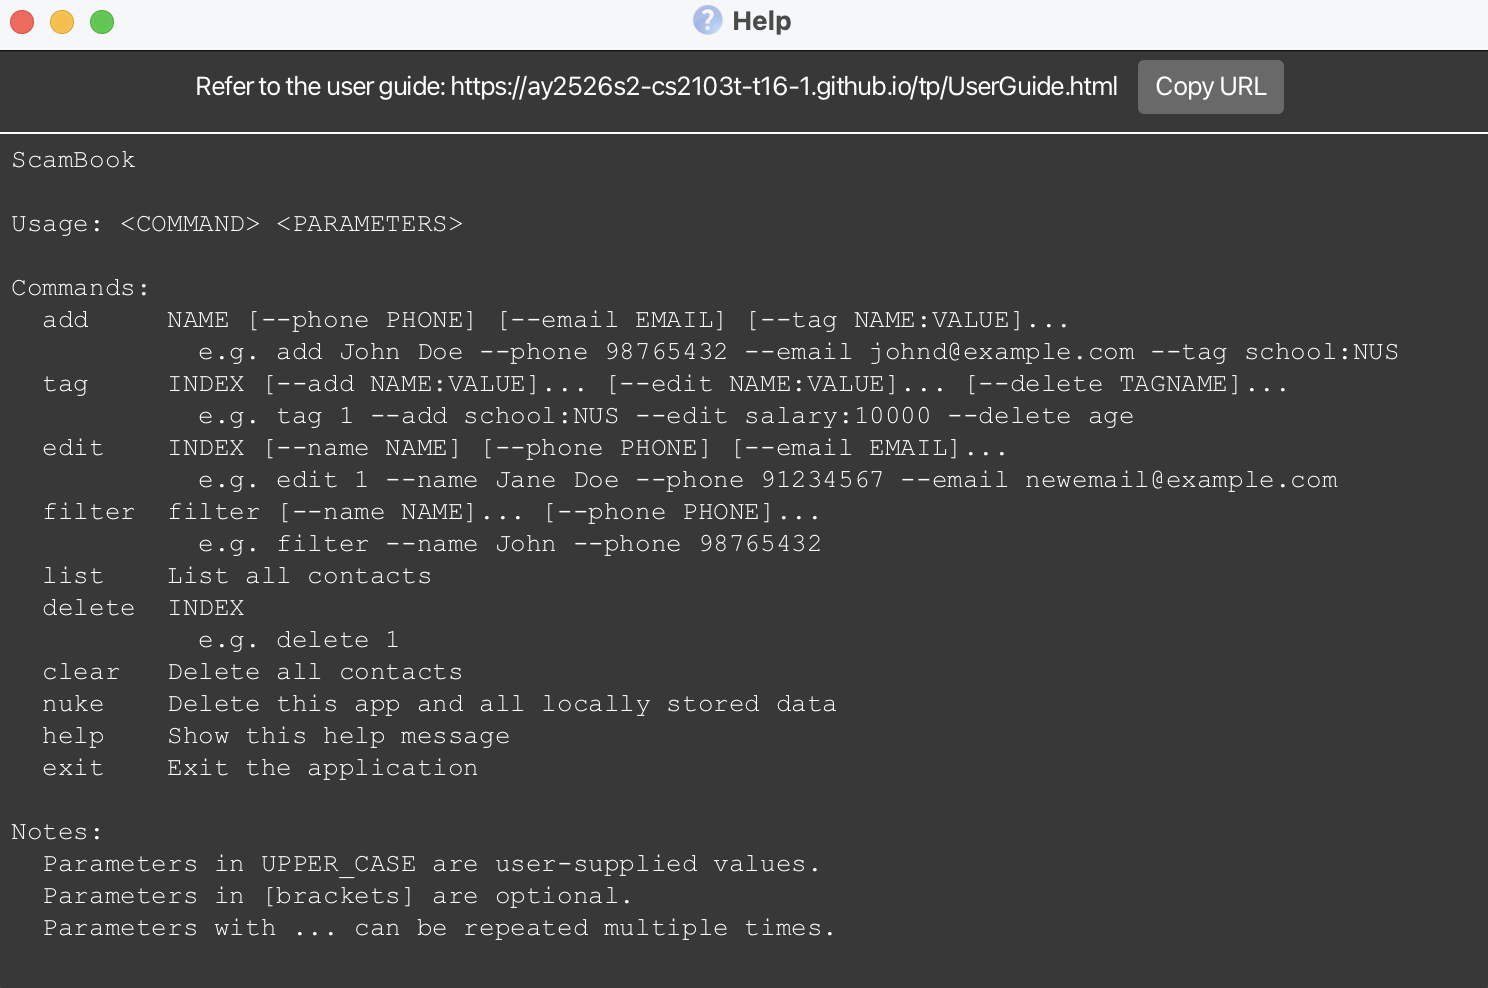
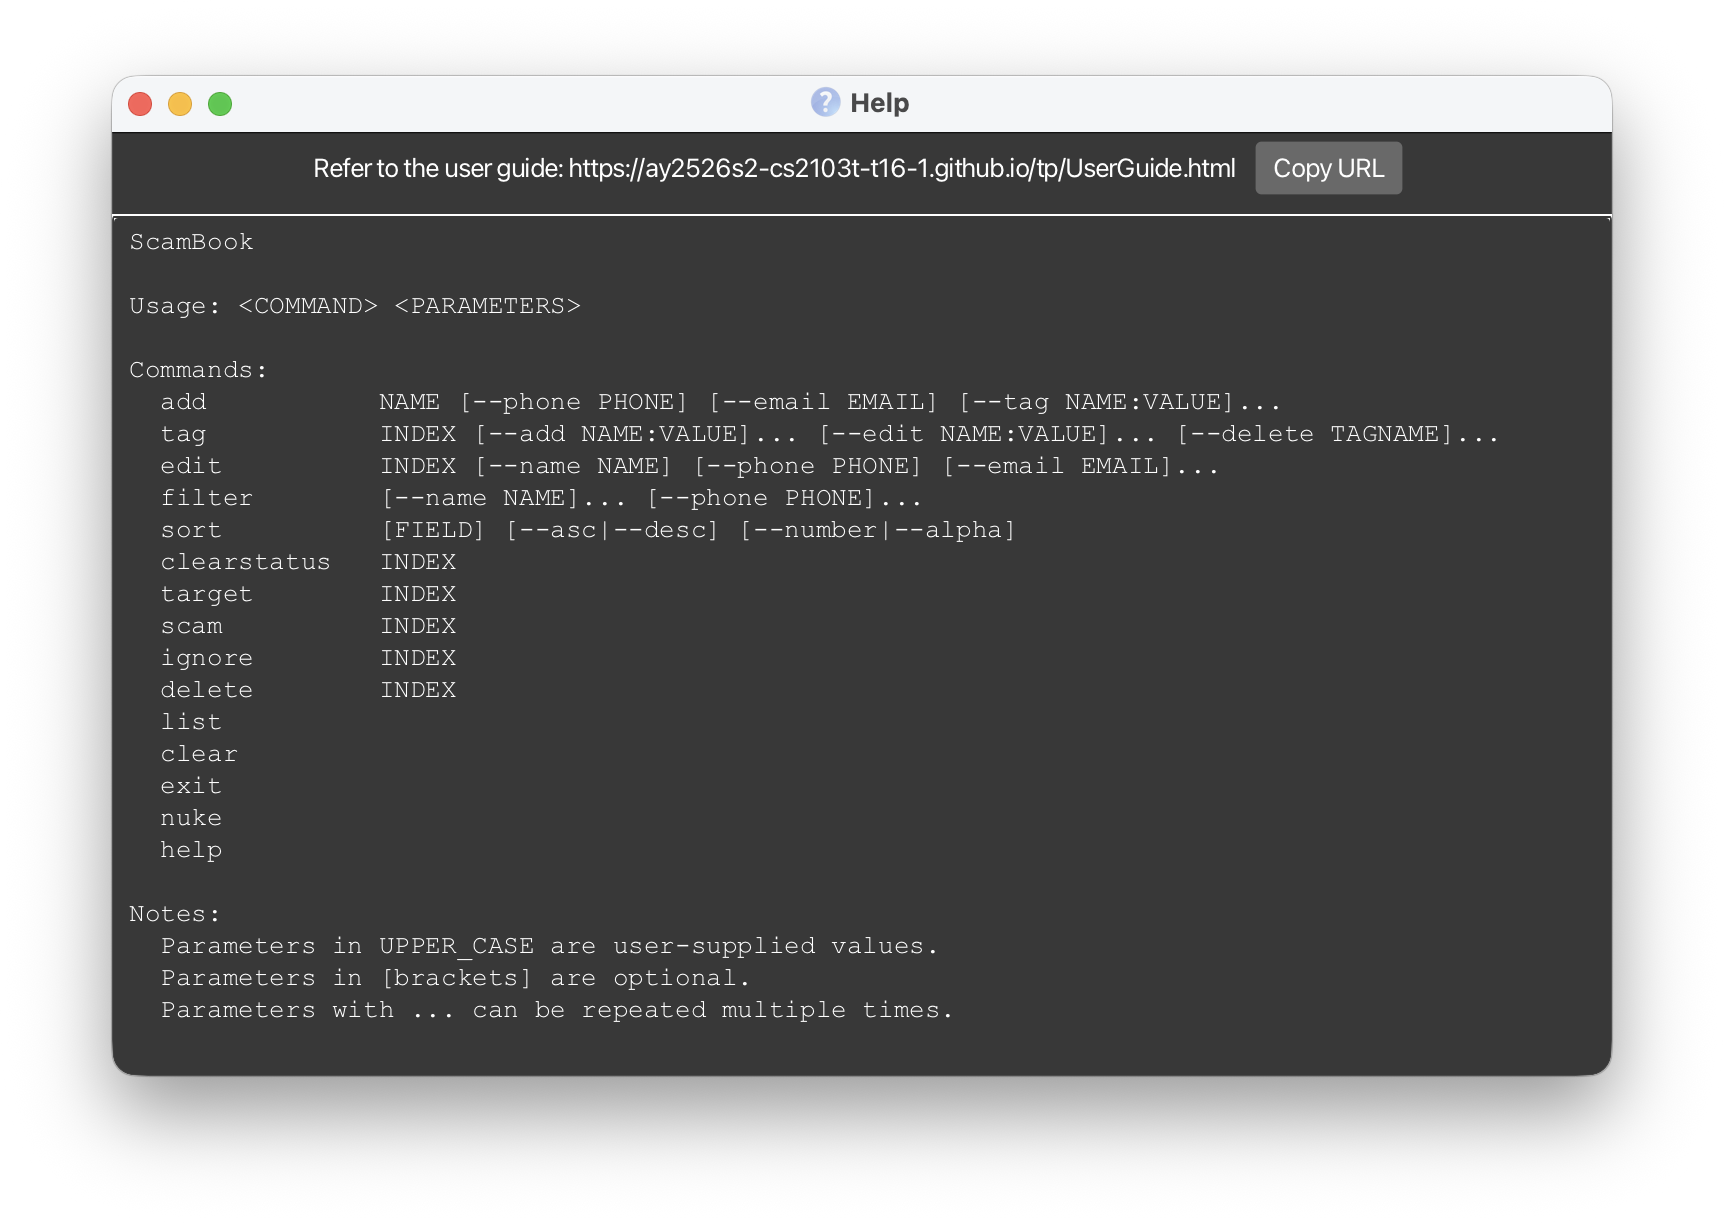
Update helpMessage.png

diff --git a/src/main/java/seedu/address/ui/HelpWindow.java b/src/main/java/seedu/address/ui/HelpWindow.java
@@ -27,7 +27,7 @@ public class HelpWindow extends UiPart<Stage> {
           add           NAME [--phone PHONE] [--email EMAIL] [--tag NAME:VALUE]...
           tag           INDEX [--add NAME:VALUE]... [--edit NAME:VALUE]... [--delete TAGNAME]...
           edit          INDEX [--name NAME] [--phone PHONE] [--email EMAIL]...
-          filter        filter [--name NAME]... [--phone PHONE]...
+          filter        [--name NAME]... [--phone PHONE]...
           sort          [FIELD] [--asc|--desc] [--number|--alpha]
           clearstatus   INDEX
           target        INDEX
